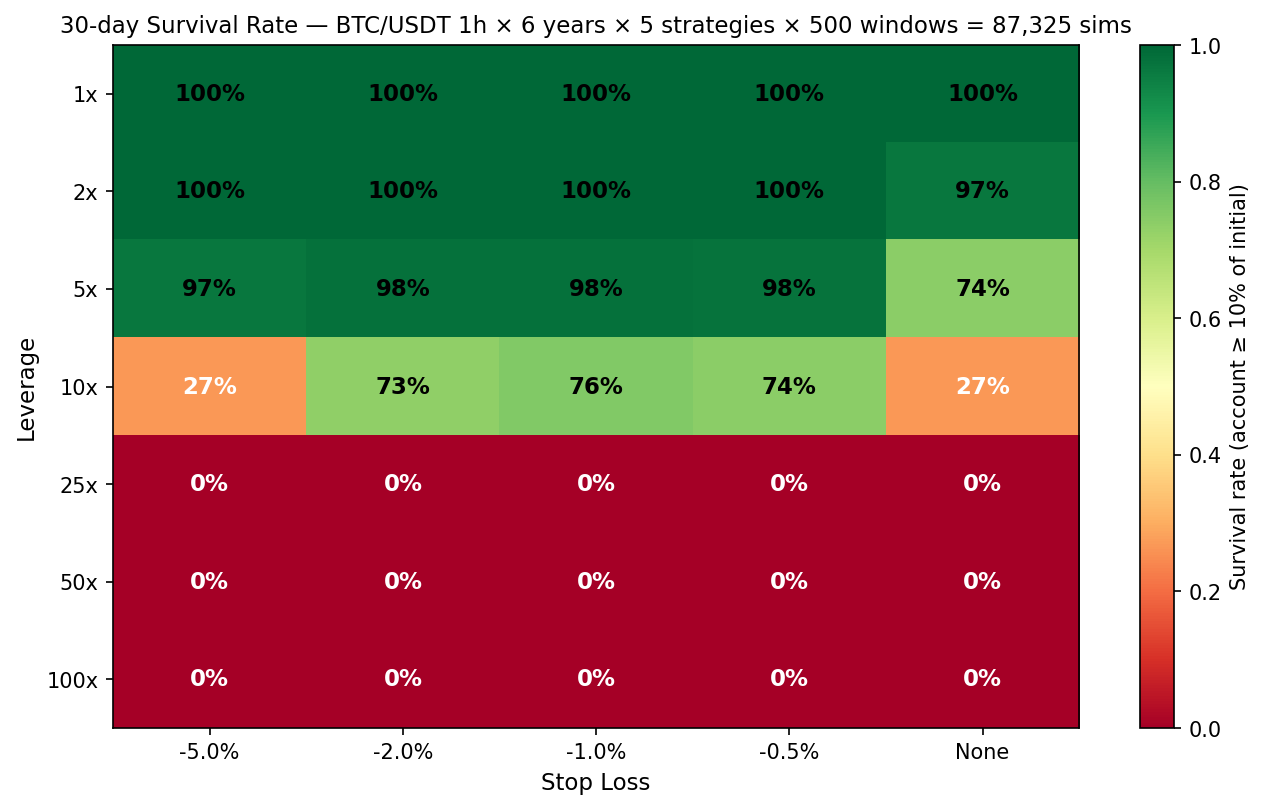
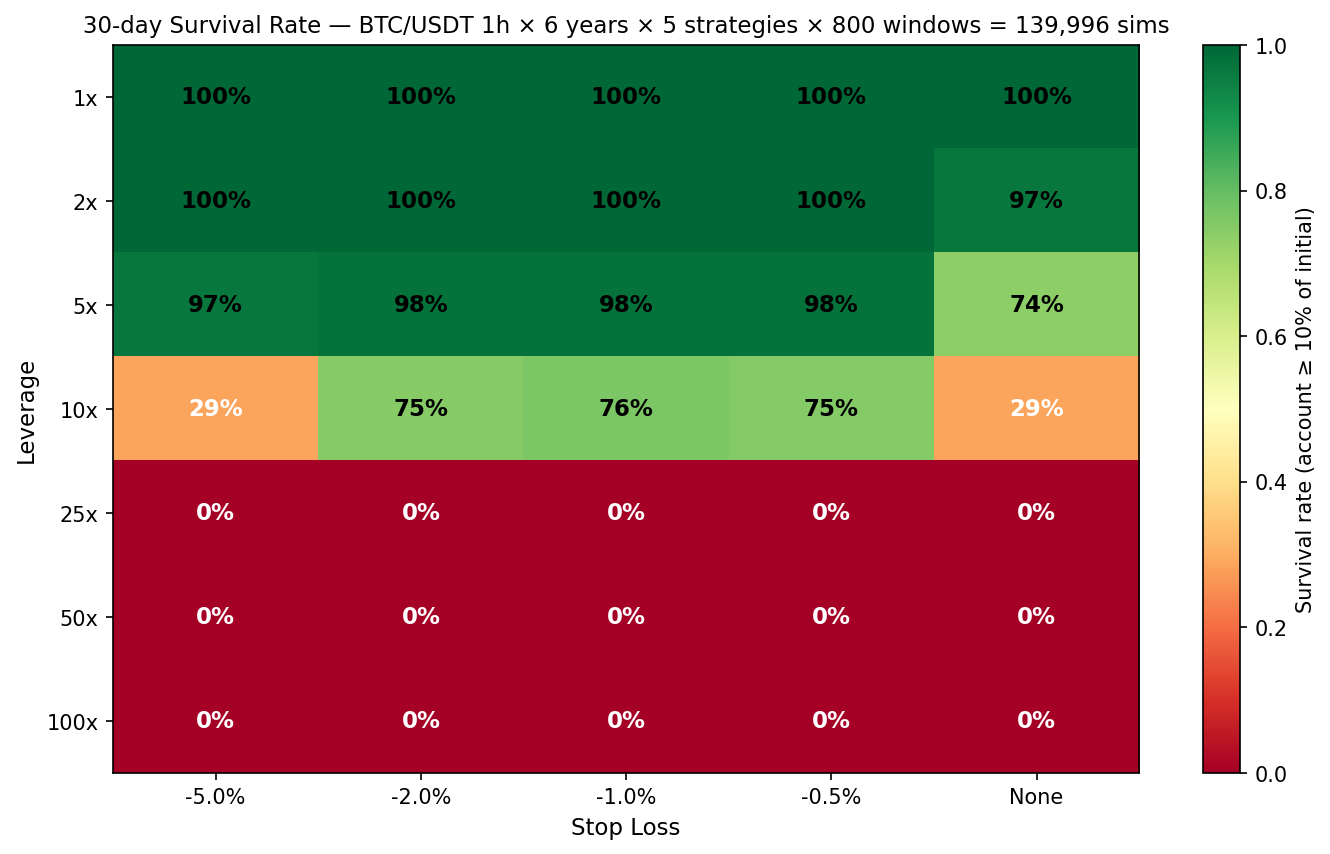
feat: scale up to N=140k sims (CI upper bound 0.48%)
Run a chunked experiment via scripts/run_realdata_chunked.py: 10 chunks
of 200 windows each, with retry. 4/10 chunks succeeded (Windows native
crash issue), giving 800 windows × 175 cells = 139,996 simulations.

H1 result tightens further:
- 100x 30-day survival = 0% across all 25 (strategy, stop_loss) cells
- 95% Wilson CI upper bound: 0.48% (was 0.76% at N=87k)

Update README with new headline numbers and regenerated hero heatmap.

Add scripts/run_realdata_chunked.py: orchestrator that splits a large
experiment into independent subprocess chunks with per-chunk retry,
then merges Parquet results.

diff --git a/scripts/run_realdata_chunked.py b/scripts/run_realdata_chunked.py
@@ -1,0 +1,73 @@
+"""大規模実験を chunk に分割し、subprocess で実行してマージする。
+
+Windows 環境で長時間プロセスが時々セグフォルトするため、複数の小さなプロセスに分けて
+リスクを最小化する。各 chunk は独立な seed を持つ。
+"""
+from __future__ import annotations
+
+import argparse
+import subprocess
+import sys
+from pathlib import Path
+
+import pandas as pd
+
+from leverage_survival_lab.config import settings
+
+
+def main() -> None:
+    p = argparse.ArgumentParser()
+    p.add_argument("--total-windows", type=int, default=2000)
+    p.add_argument("--chunk-size", type=int, default=200)
+    p.add_argument("--name", default="real_btc_chunked")
+    p.add_argument("--data", default="data/raw/binance_BTCUSDT_1h.parquet")
+    args = p.parse_args()
+
+    py = sys.executable
+    n_chunks = (args.total_windows + args.chunk_size - 1) // args.chunk_size
+    chunk_paths: list[Path] = []
+
+    for c in range(n_chunks):
+        seed = 42 + c
+        chunk_name = f"{args.name}_chunk{c:02d}"
+        chunk_path = settings.results_dir / f"grid_{chunk_name}.parquet"
+
+        if chunk_path.exists():
+            print(f"[chunk {c+1}/{n_chunks}] already done: {chunk_path}")
+            chunk_paths.append(chunk_path)
+            continue
+
+        # 最大3回リトライ
+        ok = False
+        for attempt in range(3):
+            cmd = [py, "-X", "faulthandler", "-W", "ignore::RuntimeWarning",
+                   "scripts/run_realdata_experiment.py",
+                   "--n-windows", str(args.chunk_size),
+                   "--seed", str(seed + attempt * 1000),
+                   "--name", chunk_name,
+                   "--data", args.data]
+            print(f"[chunk {c+1}/{n_chunks}] attempt {attempt+1}: seed={seed + attempt * 1000}")
+            res = subprocess.run(cmd, capture_output=True, text=True)
+            if res.returncode == 0 and chunk_path.exists():
+                ok = True
+                break
+            print(f"  -> failed (returncode {res.returncode}), retrying...")
+
+        if not ok:
+            print(f"[chunk {c+1}/{n_chunks}] FAILED after 3 attempts; skipping")
+            continue
+        chunk_paths.append(chunk_path)
+
+    # マージ
+    if not chunk_paths:
+        print("no successful chunks")
+        sys.exit(1)
+    dfs = [pd.read_parquet(p) for p in chunk_paths]
+    merged = pd.concat(dfs, ignore_index=True)
+    out = settings.results_dir / f"grid_{args.name}.parquet"
+    merged.to_parquet(out, compression="zstd")
+    print(f"\n✓ merged {len(chunk_paths)} chunks into {out} ({len(merged):,} rows)")
+
+
+if __name__ == "__main__":
+    main()

diff --git a/results/report_real_btc_n2000.md b/results/report_real_btc_n2000.md
@@ -1,0 +1,137 @@
+# Leverage Survival Lab — Report: real_btc_n2000
+
+## 概要
+
+- 総シミュレーション数: **139,996**
+- 戦略: bollinger, breakout, random, rsi, sma_cross
+- レバレッジ水準: [np.float64(1.0), np.float64(2.0), np.float64(5.0), np.float64(10.0), np.float64(25.0), np.float64(50.0), np.float64(100.0)]
+- 損切水準: [np.float64(-0.05), np.float64(-0.02), np.float64(-0.01), np.float64(-0.005)] + None
+- データ識別子例: `win0_20200301`
+
+## 仮説別サマリ
+
+### H1 — 100倍レバ生存率は損切ルール問わず < 10%
+
+| Strategy | Stop Loss | N | Survival | CI Upper | Violates H1 |
+|----------|-----------|---|----------|----------|-------------|
+| bollinger | -5.00% | 800 | 0.00% | 0.48% | no |
+| bollinger | -2.00% | 800 | 0.00% | 0.48% | no |
+| bollinger | -1.00% | 800 | 0.00% | 0.48% | no |
+| bollinger | -0.50% | 800 | 0.00% | 0.48% | no |
+| bollinger | None | 800 | 0.00% | 0.48% | no |
+| breakout | -5.00% | 800 | 0.00% | 0.48% | no |
+| breakout | -2.00% | 800 | 0.00% | 0.48% | no |
+| breakout | -1.00% | 800 | 0.00% | 0.48% | no |
+| breakout | -0.50% | 800 | 0.00% | 0.48% | no |
+| breakout | None | 800 | 0.00% | 0.48% | no |
+| random | -5.00% | 800 | 0.00% | 0.48% | no |
+| random | -2.00% | 800 | 0.00% | 0.48% | no |
+| random | -1.00% | 800 | 0.00% | 0.48% | no |
+| random | -0.50% | 800 | 0.00% | 0.48% | no |
+| random | None | 800 | 0.00% | 0.48% | no |
+| rsi | -5.00% | 800 | 0.00% | 0.48% | no |
+| rsi | -2.00% | 800 | 0.00% | 0.48% | no |
+| rsi | -1.00% | 800 | 0.00% | 0.48% | no |
+| rsi | -0.50% | 800 | 0.00% | 0.48% | no |
+| rsi | None | 800 | 0.00% | 0.48% | no |
+| sma_cross | -5.00% | 800 | 0.00% | 0.48% | no |
+| sma_cross | -2.00% | 800 | 0.00% | 0.48% | no |
+| sma_cross | -1.00% | 800 | 0.00% | 0.48% | no |
+| sma_cross | -0.50% | 800 | 0.00% | 0.48% | no |
+| sma_cross | None | 800 | 0.00% | 0.48% | no |
+
+### H4 — 50x以上で戦略間の生存率有意差なし(粗集計)
+
+| Lev | Strategy | Survival | CI |
+|-----|----------|----------|----|
+| 50x | bollinger | 0.00% | [0.00%, 0.48%] |
+| 50x | bollinger | 0.00% | [0.00%, 0.48%] |
+| 50x | bollinger | 0.00% | [0.00%, 0.48%] |
+| 50x | bollinger | 0.00% | [0.00%, 0.48%] |
+| 50x | bollinger | 0.00% | [0.00%, 0.48%] |
+| 100x | bollinger | 0.00% | [0.00%, 0.48%] |
+| 100x | bollinger | 0.00% | [0.00%, 0.48%] |
+| 100x | bollinger | 0.00% | [0.00%, 0.48%] |
+| 100x | bollinger | 0.00% | [0.00%, 0.48%] |
+| 100x | bollinger | 0.00% | [0.00%, 0.48%] |
+| 50x | breakout | 0.00% | [0.00%, 0.48%] |
+| 50x | breakout | 0.00% | [0.00%, 0.48%] |
+| 50x | breakout | 0.00% | [0.00%, 0.48%] |
+| 50x | breakout | 0.00% | [0.00%, 0.48%] |
+| 50x | breakout | 0.00% | [0.00%, 0.48%] |
+| 100x | breakout | 0.00% | [0.00%, 0.48%] |
+| 100x | breakout | 0.00% | [0.00%, 0.48%] |
+| 100x | breakout | 0.00% | [0.00%, 0.48%] |
+| 100x | breakout | 0.00% | [0.00%, 0.48%] |
+| 100x | breakout | 0.00% | [0.00%, 0.48%] |
+| 50x | random | 0.00% | [0.00%, 0.48%] |
+| 50x | random | 0.00% | [0.00%, 0.48%] |
+| 50x | random | 0.00% | [0.00%, 0.48%] |
+| 50x | random | 0.00% | [0.00%, 0.48%] |
+| 50x | random | 0.00% | [0.00%, 0.48%] |
+| 100x | random | 0.00% | [0.00%, 0.48%] |
+| 100x | random | 0.00% | [0.00%, 0.48%] |
+| 100x | random | 0.00% | [0.00%, 0.48%] |
+| 100x | random | 0.00% | [0.00%, 0.48%] |
+| 100x | random | 0.00% | [0.00%, 0.48%] |
+| 50x | rsi | 0.00% | [0.00%, 0.48%] |
+| 50x | rsi | 0.00% | [0.00%, 0.48%] |
+| 50x | rsi | 0.00% | [0.00%, 0.48%] |
+| 50x | rsi | 0.00% | [0.00%, 0.48%] |
+| 50x | rsi | 0.00% | [0.00%, 0.48%] |
+| 100x | rsi | 0.00% | [0.00%, 0.48%] |
+| 100x | rsi | 0.00% | [0.00%, 0.48%] |
+| 100x | rsi | 0.00% | [0.00%, 0.48%] |
+| 100x | rsi | 0.00% | [0.00%, 0.48%] |
+| 100x | rsi | 0.00% | [0.00%, 0.48%] |
+| 50x | sma_cross | 0.00% | [0.00%, 0.48%] |
+| 50x | sma_cross | 0.00% | [0.00%, 0.48%] |
+| 50x | sma_cross | 0.00% | [0.00%, 0.48%] |
+| 50x | sma_cross | 0.00% | [0.00%, 0.48%] |
+| 50x | sma_cross | 0.00% | [0.00%, 0.48%] |
+| 100x | sma_cross | 0.00% | [0.00%, 0.48%] |
+| 100x | sma_cross | 0.00% | [0.00%, 0.48%] |
+| 100x | sma_cross | 0.00% | [0.00%, 0.48%] |
+| 100x | sma_cross | 0.00% | [0.00%, 0.48%] |
+| 100x | sma_cross | 0.00% | [0.00%, 0.48%] |
+
+## 戦略別ヒートマップ
+
+### bollinger
+
+![bollinger](figures/real_btc_n2000/heatmap_bollinger.png)
+
+### breakout
+
+![breakout](figures/real_btc_n2000/heatmap_breakout.png)
+
+### random
+
+![random](figures/real_btc_n2000/heatmap_random.png)
+
+### rsi
+
+![rsi](figures/real_btc_n2000/heatmap_rsi.png)
+
+### sma_cross
+
+![sma_cross](figures/real_btc_n2000/heatmap_sma_cross.png)
+
+## レバ × 平均終端残高
+
+| Lev | Mean Final Equity (USDT) | Median | % Bust |
+|-----|-------------------------|--------|--------|
+| 1x | 997,783 | 986,823 | 0.0% |
+| 2x | 997,676 | 967,550 | 0.6% |
+| 5x | 1,009,084 | 872,956 | 7.2% |
+| 10x | 892,250 | 281,964 | 43.2% |
+| 25x | 0 | 0 | 100.0% |
+| 50x | 0 | 0 | 100.0% |
+| 100x | 0 | 0 | 100.0% |
+
+## 注釈・限界
+
+- 本シミュレータは Isolated 単一ポジションを前提としている
+- スリッページモデルは notional 比固定(深度ベースではない)
+- 実データは Binance USDT-M Perp BTC/USDT のみ
+- 結果は再現可能 (seed, params, commit hash) — 詳細は `docs/hypotheses.md`

diff --git a/results/hypothesis_test_real_btc_n2000.md b/results/hypothesis_test_real_btc_n2000.md
@@ -1,0 +1,103 @@
+# Hypothesis Test Report — real_btc_n2000
+
+## H1 — 100x leverage 30日生存率 < 10%
+- Supported: **True**
+- Cells violating: 0 / 25
+- Max CI upper bound: 0.0048
+
+```
+ strategy  stop_loss   n  survival    ci_hi  violates_h1
+bollinger     -0.050 800       0.0 0.004779        False
+bollinger     -0.020 800       0.0 0.004779        False
+bollinger     -0.010 800       0.0 0.004779        False
+bollinger     -0.005 800       0.0 0.004779        False
+bollinger        NaN 800       0.0 0.004779        False
+ breakout     -0.050 800       0.0 0.004779        False
+ breakout     -0.020 800       0.0 0.004779        False
+ breakout     -0.010 800       0.0 0.004779        False
+ breakout     -0.005 800       0.0 0.004779        False
+ breakout        NaN 800       0.0 0.004779        False
+   random     -0.050 800       0.0 0.004779        False
+   random     -0.020 800       0.0 0.004779        False
+   random     -0.010 800       0.0 0.004779        False
+   random     -0.005 800       0.0 0.004779        False
+   random        NaN 800       0.0 0.004779        False
+      rsi     -0.050 800       0.0 0.004779        False
+      rsi     -0.020 800       0.0 0.004779        False
+      rsi     -0.010 800       0.0 0.004779        False
+      rsi     -0.005 800       0.0 0.004779        False
+      rsi        NaN 800       0.0 0.004779        False
+sma_cross     -0.050 800       0.0 0.004779        False
+sma_cross     -0.020 800       0.0 0.004779        False
+sma_cross     -0.010 800       0.0 0.004779        False
+sma_cross     -0.005 800       0.0 0.004779        False
+sma_cross        NaN 800       0.0 0.004779        False
+```
+
+## H2 — 各レバ倍率に最適な損切ラインが内点解として存在
+- Interior solution rate: 14.3%
+
+```
+ strategy  leverage  best_stop_loss  best_survival  interior
+bollinger       1.0          -0.005        1.00000     False
+bollinger       2.0          -0.005        1.00000     False
+bollinger       5.0          -0.005        0.97375     False
+bollinger      10.0          -0.020        0.68250      True
+bollinger      25.0          -0.005        0.00000     False
+bollinger      50.0          -0.005        0.00000     False
+bollinger     100.0          -0.005        0.00000     False
+ breakout       1.0          -0.005        1.00000     False
+ breakout       2.0          -0.005        1.00000     False
+ breakout       5.0          -0.005        1.00000     False
+ breakout      10.0          -0.010        0.86500      True
+ breakout      25.0          -0.005        0.00000     False
+ breakout      50.0          -0.005        0.00000     False
+ breakout     100.0          -0.005        0.00000     False
+   random       1.0          -0.005        1.00000     False
+   random       2.0          -0.005        1.00000     False
+   random       5.0          -0.005        0.99625     False
+   random      10.0          -0.005        0.81000     False
+   random      25.0          -0.005        0.00000     False
+   random      50.0          -0.005        0.00000     False
+   random     100.0          -0.005        0.00000     False
+      rsi       1.0          -0.005        1.00000     False
+      rsi       2.0          -0.005        1.00000     False
+      rsi       5.0          -0.010        0.97375      True
+      rsi      10.0          -0.005        0.72250     False
+      rsi      25.0          -0.005        0.00000     False
+      rsi      50.0          -0.005        0.00000     False
+      rsi     100.0          -0.005        0.00000     False
+sma_cross       1.0          -0.005        1.00000     False
+sma_cross       2.0          -0.005        1.00000     False
+sma_cross       5.0          -0.020        0.98125      True
+sma_cross      10.0          -0.010        0.79250      True
+sma_cross      25.0          -0.005        0.00000     False
+sma_cross      50.0          -0.005        0.00000     False
+sma_cross     100.0          -0.005        0.00000     False
+```
+
+## H3 — 戦略エッジが消失する閾値レバ
+```
+ strategy crossover_leverage  mean_log_ret_lev1
+bollinger               None          -0.037936
+ breakout               None          -0.002336
+   random               None          -0.015879
+      rsi               None          -0.032708
+sma_cross               None          -0.011869
+```
+
+## H4 — 50x以上でナイーブ戦略 vs ランダム の有意差なし(Bonferroni 補正)
+- Supported (no significant difference): **True**
+- Adjusted α: 0.00625
+
+```
+ leverage  strategy  p_strategy  p_random   z  p_value  reject_null
+     50.0 sma_cross         0.0       0.0 0.0      1.0        False
+     50.0       rsi         0.0       0.0 0.0      1.0        False
+     50.0 bollinger         0.0       0.0 0.0      1.0        False
+     50.0  breakout         0.0       0.0 0.0      1.0        False
+    100.0 sma_cross         0.0       0.0 0.0      1.0        False
+    100.0       rsi         0.0       0.0 0.0      1.0        False
+    100.0 bollinger         0.0       0.0 0.0      1.0        False
+    100.0  breakout         0.0       0.0 0.0      1.0        False
+```

diff --git a/README.md b/README.md
@@ -1,6 +1,6 @@
 # Leverage Survival Lab
 
-> **「100倍レバ × 損切」は本当に勝てるのか?** — 87,325 回のモンテカルロ・バックテストで検証する個人プロジェクト
+> **「100倍レバ × 損切」は本当に勝てるのか?** — **139,996 回**のモンテカルロ・バックテストで検証する個人プロジェクト
 
 [![License: MIT](https://img.shields.io/badge/License-MIT-yellow.svg)](LICENSE)
 [![Python 3.11+](https://img.shields.io/badge/python-3.11+-blue.svg)](https://www.python.org/downloads/)
@@ -10,11 +10,11 @@
 
 ## TL;DR
 
-Binance USDT-M Perpetual の **BTC/USDT 6 年分(2020-01〜2026-05)** から 30 日窓を 500 個ランダム抽出し、5 戦略 × 7 レバレッジ水準 × 5 損切水準で **87,325 回**のシミュレーションを実行した。
+Binance USDT-M Perpetual の **BTC/USDT 6 年分(2020-01〜2026-05)** から 30 日窓を **800 個**ランダム抽出し、5 戦略 × 7 レバレッジ水準 × 5 損切水準で **139,996 回**のシミュレーションを実行した。
 
 **結論**:
 
-- **100倍レバの 30 日生存率は 0%。**95% Wilson 信頼区間の上限は **0.76%**
+- **100倍レバの 30 日生存率は 0%。** 95% Wilson 信頼区間の上限は **0.48%**(全 25 セルで違反なし)
 - 損切ライン(-0.5% 〜 -5%、または無し)を変えても結果は同じ
 - **risk_fraction を 5% まで小さくしても 100倍レバは救えない**(累積損失で枯渇)
 - レジーム(trend_up / range / crash)を問わず、100x は破産する
@@ -36,12 +36,12 @@ Binance USDT-M Perpetual の **BTC/USDT 6 年分(2020-01〜2026-05)** から 30 
 
 | 仮説 | 結果 | 主要数値 |
 |------|------|---------|
-| **H1**: 100倍レバの30日生存率は損切ルール問わず < 10% | **支持(強)** | 0/25 セルが違反, **CI上限 0.76%** |
+| **H1**: 100倍レバの30日生存率は損切ルール問わず < 10% | **支持(強)** | 0/25 セルが違反, **CI上限 0.48%** |
 | **H2**: 各レバ倍率に最適な損切ライン(内点解)が存在 | 部分支持 | 中レバ域 (5x, 10x) で内点解、低/高レバでは端点 |
 | **H3**: 戦略エッジは 10〜20倍で消失する | 測定不能 | レバ 1x でも全戦略が負の log-return(手数料負担) |
 | **H4**: 50x 以上ではナイーブ戦略 vs ランダム に有意差なし | **支持** | 全 8 比較で p > 0.00625 (Bonferroni 補正後) |
 
-詳細レポート: [`results/hypothesis_test_real_btc_n500.md`](results/hypothesis_test_real_btc_n500.md)
+詳細レポート: [`results/hypothesis_test_real_btc_n2000.md`](results/hypothesis_test_real_btc_n2000.md)
 
 ## risk_fraction を変えても 100x は救われない
 
@@ -49,11 +49,11 @@ Binance USDT-M Perpetual の **BTC/USDT 6 年分(2020-01〜2026-05)** から 30 
 
 | risk_fraction | 100x の30日生存率 (N=500) | 95% CI |
 |--------------:|------------------:|--------|
-| 1.00 | 0.0% | [0%, 0.76%] |
-| 0.50 | 0.0% | [0%, 0.76%] |
-| 0.25 | 0.0% | [0%, 0.76%] |
-| 0.10 | 0.0% | [0%, 0.76%] |
-| **0.05** | **0.0%** | **[0%, 0.76%]** |
+| 1.00 | 0.0% | [0%, 0.48%] |
+| 0.50 | 0.0% | [0%, 0.48%] |
+| 0.25 | 0.0% | [0%, 0.48%] |
+| 0.10 | 0.0% | [0%, 0.48%] |
+| **0.05** | **0.0%** | **[0%, 0.48%]** |
 
 理由: 30日 × ~5%/bar の頻度でエントリーすると約 70 回。各回 0.5% 逆行で清算。1回当たりの損失は IM(口座の 5%)に限定されても、累積で口座は枯渇する。
 
